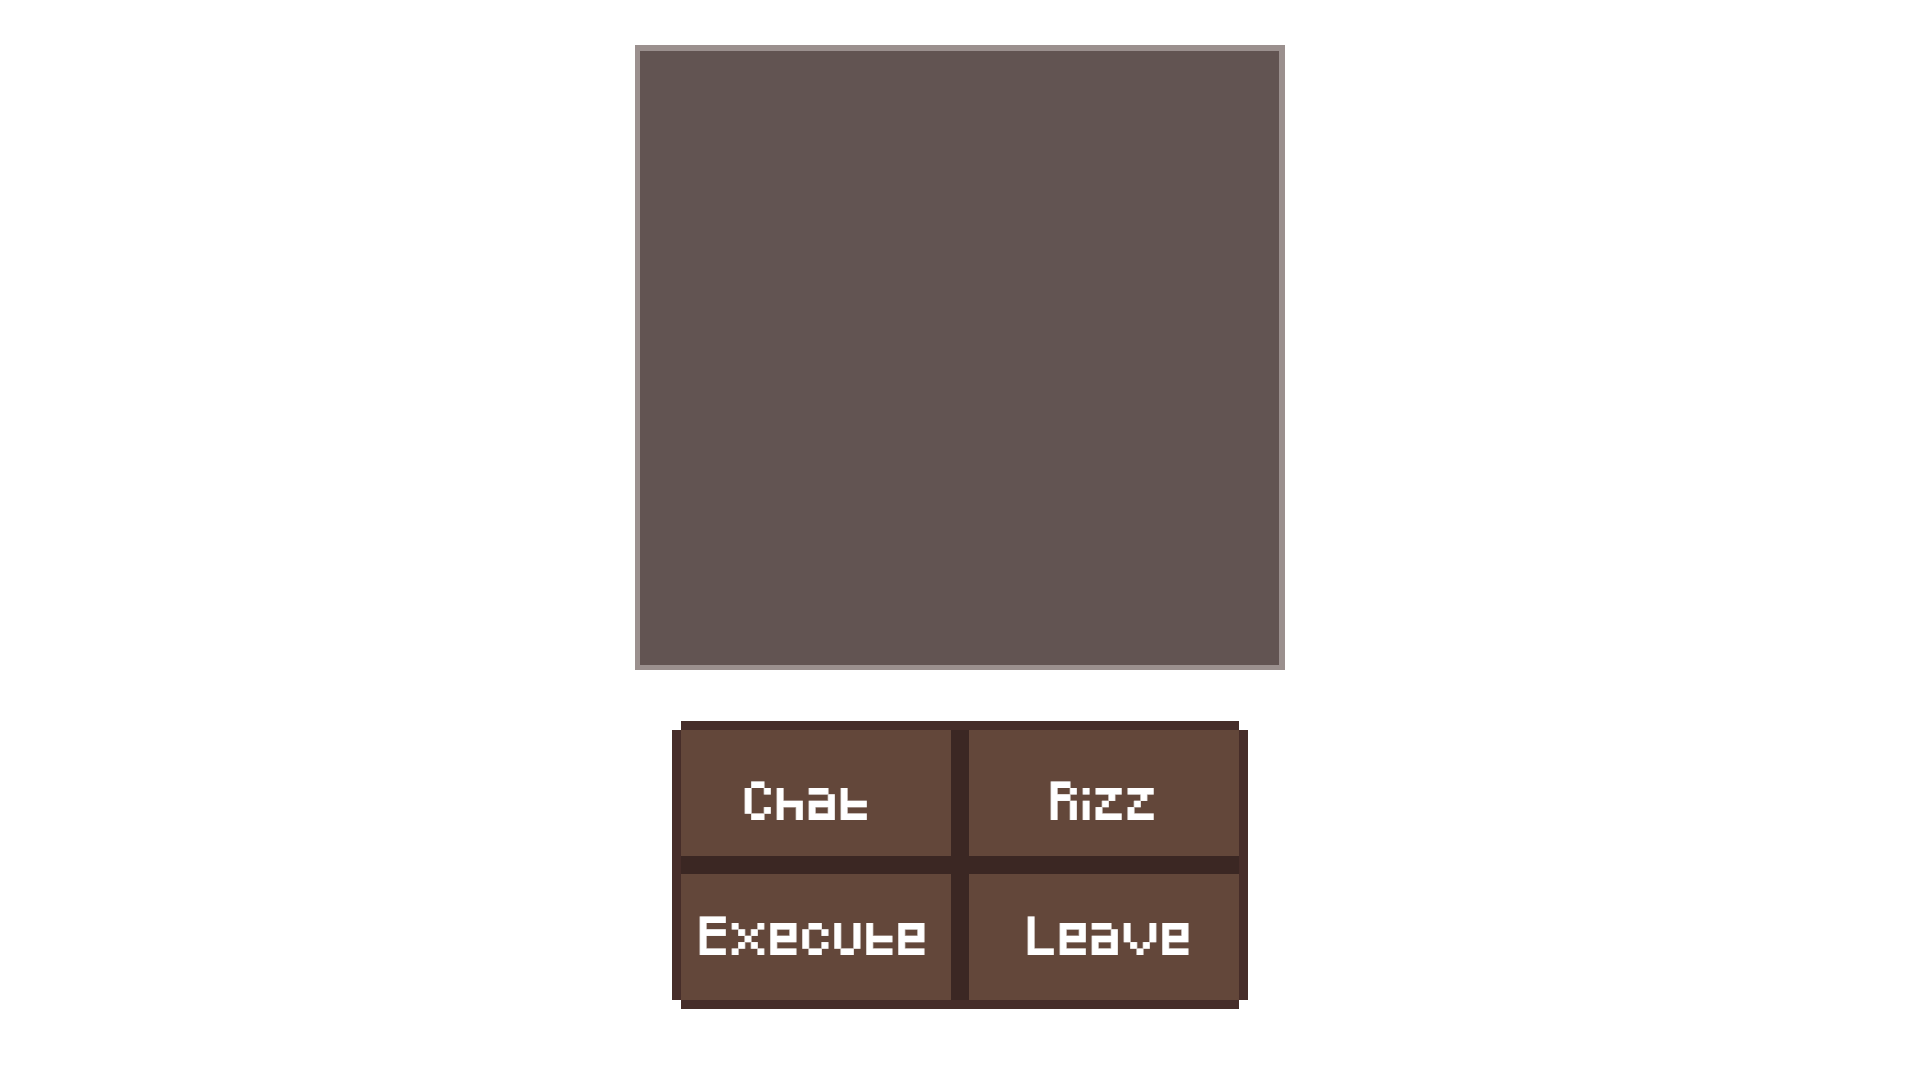
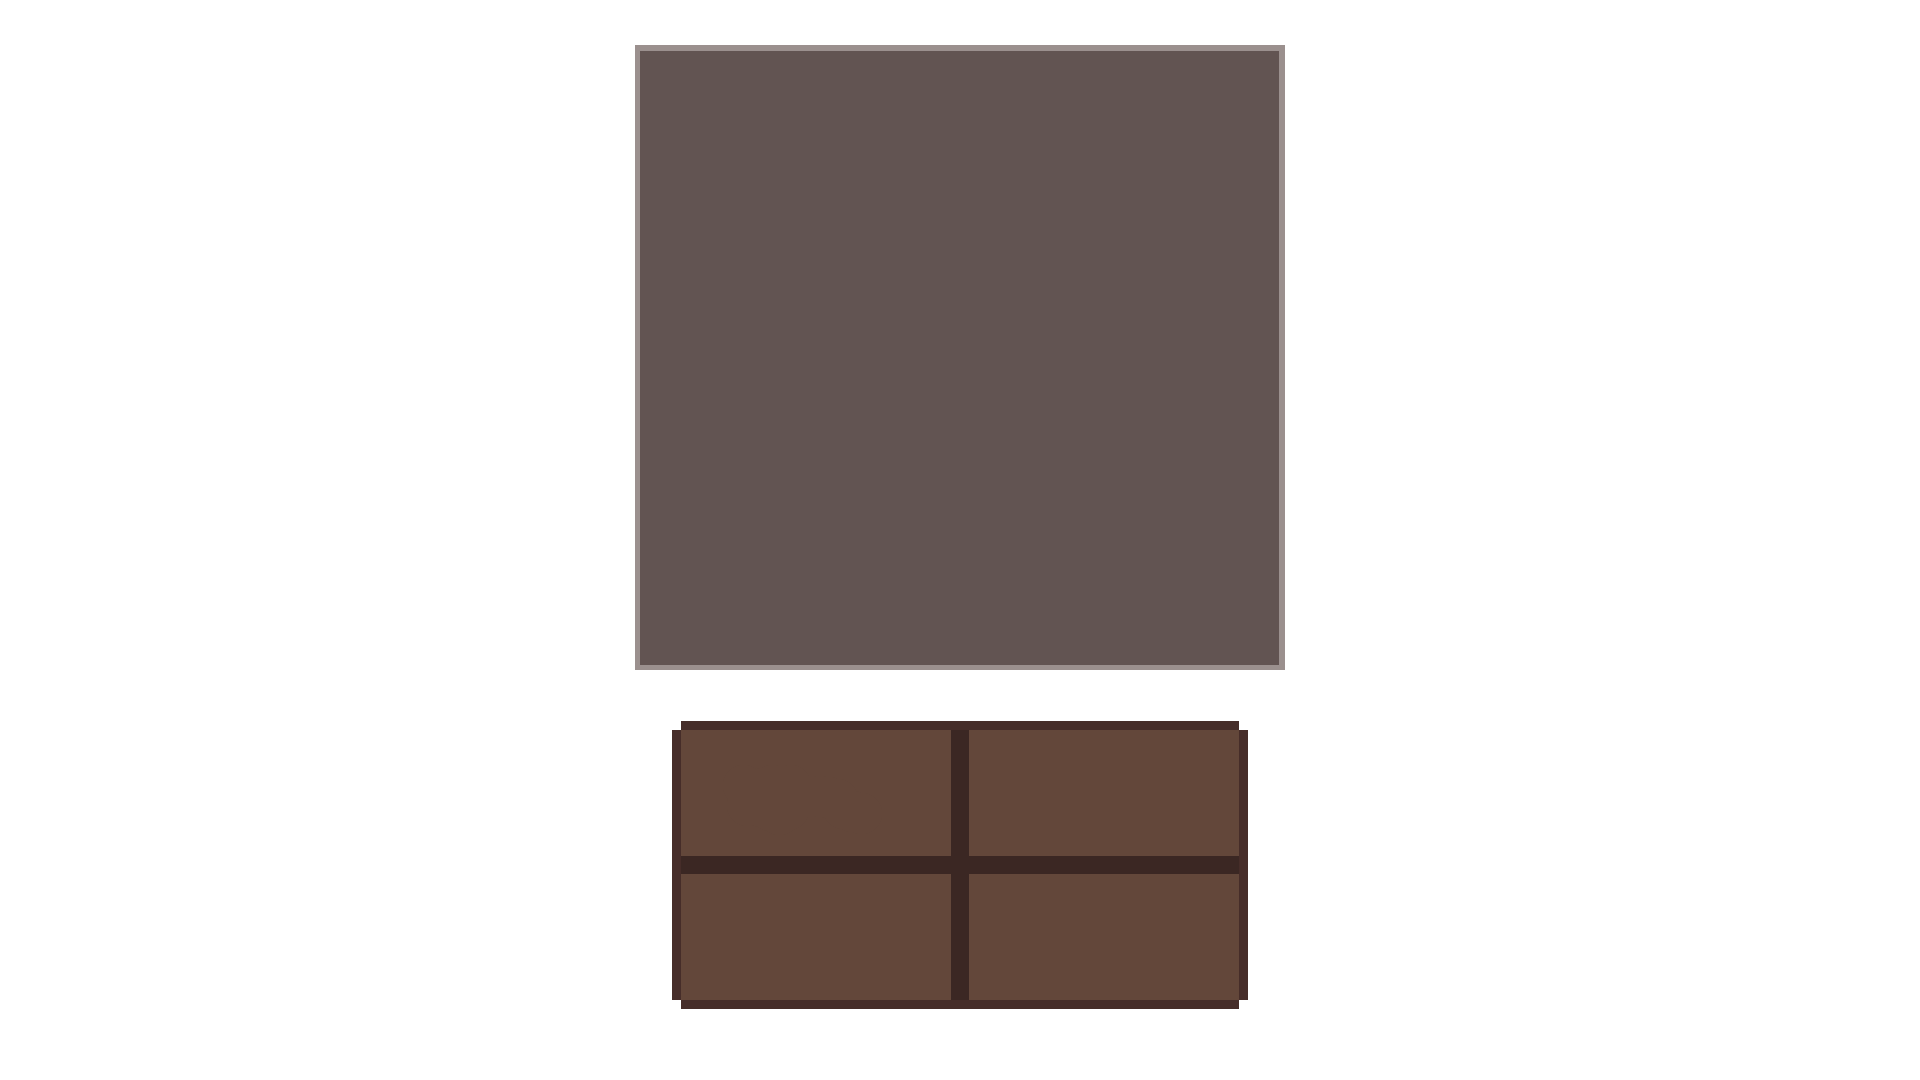
most of dialogue+execution

diff --git a/main.py b/main.py
@@ -3,6 +3,8 @@ import sys
 import json
 import random
 
+ 
+
 pygame.init() # initializing
 pygame.mixer.init() # intiizialaitiznig mixer
 
@@ -21,7 +23,7 @@ QUEEN_BOX.center = (1920 // 2 + 260, 1080 // 2)
 CONFIRM_BUTTON.center = (1920 // 2, 1080 - 140)
 main_pixel_font = pygame.font.Font('all_fonts/VCR_OSD_MONO_1.001.ttf', 70)
 running = True
-current_screen = "mission_board"
+current_screen = "main_menu"
 # role select screen 
 chosen_role = None  # final role
 role_selected = None  # currently highlighted role
@@ -69,6 +71,13 @@ fancy_back_arrow = pygame.image.load("images/nice_looking_arrow.png")
 control_room = pygame.image.load("images/control_room.png")
 troop_allocation = pygame.image.load("images/troop_allocation.png")
 quick_actions = pygame.image.load("images/quick_actions.png")
+
+# execution screen variables
+falling_man_y = -200
+falling_speed = 5
+ground_y = 1080 - 480
+execution_timer = 0
+blood_counter = 1
 
 #town stuff 
 aestheticing = ""
@@ -225,17 +234,48 @@ buildings_info = {
                 }
 
 citizen_count = 1
-citizens = ["citizen1", "citizen2", "citizen3"]
+citizens = ["citizen1", "citizen2", "citizen3", "citizen4"]
 valid_workers = citizens.copy()
 citizens_info = {
 "citizen1_type": "m_pilgrim1", "citizen1_location": [1900,1200], "citizen1_targetoffset": [0,0], "citizen1_resting": 100,
 "citizen2_type": "m_pilgrim2", "citizen2_location": [1950,1250], "citizen2_targetoffset": [0,0], "citizen2_resting": 56,
 "citizen3_type": "m_pilgrim3", "citizen3_location": [1900,1150], "citizen3_targetoffset": [0,0], "citizen3_resting": 126,
+"citizen4_type": "m_pilgrim4", "citizen4_location": [1950,1150], "citizen4_targetoffset": [0,0], "citizen4_resting": 126,
 }
-citizen_types = ["m_pilgrim1", "m_pilgrim2", "m_pilgrim3"]
+citizen_types = ["m_pilgrim1", "m_pilgrim2", "m_pilgrim3", "m_pilgrim4"]
 occupied_citizens = {}
 # track a single nearby citizen by name instead of a list; empty string means none
 citizens_in_proximity = ""
+
+default_personalities = ["friendly", "grumpy", "chill", "hyperactive", "lazy", "anxious", "stoic", "jokester"]
+default_dialogues = ["Hello, my liege!", "What do you want?", "Nice weather we're having.", "Have you heard the latest news?", "I'm bored...", "I'm worried about the future.", "Life is meaningless.", "There's been a lot of butterflies lately.", "What brings you here?", "Another boring day, ain't it?"]
+flirtatious_responses = ["Oh, stop it you!", "You're making me blush!", "Flattery will get you everywhere ;)", "You have a way with words, my liege.", "Is it getting hot in here or is it just you?", "I think I might be developing feelings for you...", "You're not so bad yourself ;)", "If you keep talking like that, I might have to do something about it..."]
+distant_responses = ["That's weird...", "I don't know how to respond to that.", "Um... okay?", "Can we just talk about the weather?", "I'm not really in the mood to chat.", "Sorry, I'm a bit busy right now.", "Let's just focus on ruling the kingdom, shall we?", "I think we should keep things professional."]
+default_responses = ["I'm just going out for a walk right now.", "I'm tending to my duties around the town.", "I'm visiting my family.", "I'm off to the market.", "I'm about to relax at home.", "I'm working on a project for the kingdom.", "I'm training with the guards.", "I'm taking care of some errands."]
+angry_responses = ["Why are you talking to me?", "Leave me alone!", "I don't want to talk to you!", "Go bother someone else!", "I'm not in the mood for this!", "What did I ever do to you?", "Stop wasting my time!", "I'm warning you, back off!"]
+flirtatious_dialogues = ["Why hello there, liege. ;)", "You look good today, liege.", "I was hoping I'd see you today, Liege.", "You know, I've been thinking about you a lot lately...", "I can't stop thinking about you, Liege.", "Funny to see you here, you were just on my mind."]
+default_rizzed_reaction = ["Thanks, I guess?", "Um, thanks?", "Oh... thanks?", "I don't know how to respond to that, but thanks?", "I appreciate the compliment, I think?", "Thanks, you're not so bad yourself, I guess?", "Oh, you shouldn't have... but thanks?", "Well, that's flattering, thank you?"]
+dialogue_closing = pygame.image.load("images/dialogue_closing.png")
+dialogue_closing_rect = dialogue_closing.get_rect()
+default_start_options = ["Chat", "Rizz", "Execute", "Leave"]
+default_chat_options = {
+"Speak of your day, commoner.": -10,
+"What are you doing, my loyal servant?": 0,
+"Peasant, what brings you in front of me?": -10,
+"How are you doing?": 0,
+}
+default_flirt_options = {
+"You're looking especially fine today.": 5,
+"You look better than the other peasants.": -5,
+"Your eyes remind me of the beauty of the sky.": 10,
+"Your lips.. They're pretty.": 5,
+"Your face looks good.": -5,
+"Ugly bastard." : -20
+}
+
+for citizen in citizens:
+    citizens_info[citizen + "_likeness_meter"] = 50
+
 citizens_talking = []
 population = len(citizens)
 text_popupsinfo = {}
@@ -245,6 +285,11 @@ chat_with = ""
 dialogue_ui = pygame.image.load("images/dialogue_ui.png")
 dialogue_ui_rect = dialogue_ui.get_rect()
 dialogue_hover = ""
+dialogue_stage = "default"
+onscreen_dialogue = default_start_options.copy() # starts off with the default chat options, but changes depending on the dialogue stage (flirt options, distant options, etc)
+current_dialogue = ""
+chosen_message = ""
+closing_counter = 0
 
 money = 0
 food = 10 # start with 10 so they don't lose immediately, since the farms take a while to grow crops and give food, so this gives them a grace period
@@ -283,6 +328,22 @@ def draw_circles(map_length, map_width, fps):
             outer_radius_length = clamp(outer_radius_length, 0, map_width//2)
         
     return [outer_radius_length, inner_radius_length]
+
+def wrap_text(text, font, max_width):
+    words = text.split(' ')
+    lines = []
+    current_line = ''
+    for word in words:
+        test_line = current_line + word + ' '
+        if font.size(test_line)[0] <= max_width:
+            current_line = test_line
+        else:
+            if current_line:
+                lines.append(current_line.rstrip())
+            current_line = word + ' '
+    if current_line:
+        lines.append(current_line.rstrip())
+    return lines
 
 #function for sending map drawing towards the middle nicely (SANTIAGO, AND SAME EXACT THING AS DRAW CIRCLES SO NO COMMENTS)
 map_timer_count = 0
@@ -415,10 +476,68 @@ while running:
 
                 if event.button == 1: # left click
                     
-                    if dialogue_hover == "leave" and in_chat == True:
-                        in_chat = False
-                        chat_with = ""
-                        dialogue_hover = ""
+                    if in_chat == True and dialogue_hover != "" and dialogue_stage != "closing":
+                        if dialogue_hover != "" and onscreen_dialogue[int(dialogue_hover) - 1] == "Leave":
+                            in_chat = False
+                            chat_with = ""
+                            dialogue_hover = ""
+                            dialogue_stage = "default"
+                            onscreen_dialogue = default_start_options.copy()
+                            current_dialogue = ""
+                        if dialogue_hover != "" and onscreen_dialogue[int(dialogue_hover) - 1] == "Chat":
+                            dialogue_stage = "chat"
+                            dialogue_hover = ""
+                            onscreen_dialogue[0] = random.choice(list(default_chat_options.keys()))
+                            onscreen_dialogue[1] = random.choice(list(default_chat_options.keys()))
+                            onscreen_dialogue[2] = random.choice(list(default_chat_options.keys()))
+                            onscreen_dialogue[3] = "Leave"
+                        if dialogue_hover != "" and dialogue_stage == "chat":
+                            chosen_message = onscreen_dialogue[int(dialogue_hover) - 1]
+                            response_value = default_chat_options[chosen_message]
+                            citizens_info[chat_with + "_likeness_meter"] += response_value
+                            meter = citizens_info[chat_with + "_likeness_meter"]
+
+                            if meter <= 30:
+                                current_dialogue = random.choice(angry_responses)
+                            else:
+                                current_dialogue = random.choice(default_responses)
+
+                            dialogue_stage = "closing"
+                        if dialogue_hover != "" and onscreen_dialogue[int(dialogue_hover) - 1] == "Rizz":
+                            dialogue_stage = "flirt"
+                            dialogue_hover = ""
+                            onscreen_dialogue[0] = random.choice(list(default_flirt_options.keys()))
+                            onscreen_dialogue[1] = random.choice(list(default_flirt_options.keys()))
+                            onscreen_dialogue[2] = random.choice(list(default_flirt_options.keys()))
+                            onscreen_dialogue[3] = "Leave"
+                        if dialogue_hover != "" and dialogue_stage == "flirt":
+                            chosen_message = onscreen_dialogue[int(dialogue_hover) - 1]
+                            response_value = default_flirt_options[chosen_message]
+                            citizens_info[chat_with + "_likeness_meter"] += response_value
+                            meter = citizens_info[chat_with + "_likeness_meter"]
+
+                            if meter >= 70:
+                                current_dialogue = random.choice(flirtatious_responses)
+                            elif meter <= 30:
+                                current_dialogue = random.choice(distant_responses)
+                            else:
+                                current_dialogue = random.choice(default_rizzed_reaction)
+
+                            if response_value < 0:
+                                current_dialogue = random.choice(distant_responses)
+
+                            dialogue_stage = "closing"
+                        if dialogue_hover != "" and onscreen_dialogue[int(dialogue_hover) - 1] == "Execute":
+                            citizens.remove(chat_with)
+                            in_chat = False
+                            chat_with = ""
+                            dialogue_hover = ""
+                            dialogue_stage = "default"
+                            onscreen_dialogue = default_start_options.copy()
+                            current_dialogue = ""
+                             
+
+                            current_screen = "execution"
 
                     if moving_building != "":
                         if "farmland" in moving_building: # if farmland was the last thing moved / was being moved
@@ -637,7 +756,8 @@ while running:
                     buildings_info[moving_building + "_location"] = [world_x, world_y]
 
 
-                #print(mouse_x, mouse_y)
+               # print(mouse_x, mouse_y)
+                #print(dialogue_hover)
                 #town ui aesthetics:
                 if mouse_x > 337 and mouse_x < 400 and mouse_y < 1070 and mouse_y > 1013:
                     sell_hover = True
@@ -698,7 +818,13 @@ while running:
 
                 if king_landed == True:
                     if mouse_x > 967 and mouse_x < 1237 and mouse_y < 996 and mouse_y > 873:
-                        dialogue_hover = "leave"
+                        dialogue_hover = "4"
+                    elif mouse_x > 679 and mouse_x < 948 and mouse_y < 842 and mouse_y > 729:
+                        dialogue_hover = "1"
+                    elif mouse_x > 968 and mouse_x < 1235 and mouse_y < 842 and mouse_y > 729:
+                        dialogue_hover = "2"
+                    elif mouse_x > 681 and mouse_x < 947 and mouse_y < 996 and mouse_y > 875:
+                        dialogue_hover = "3"
                     else:
                         dialogue_hover = ""
     # continuous keyboard input (WASD) for king movement once he has landed
@@ -1018,13 +1144,66 @@ while running:
         # dialogues tuff
 
         if in_chat:
-            screen.blit(dialogue_ui, dialogue_ui_rect)
+            if dialogue_stage != "closing":
+                screen.blit(dialogue_ui, dialogue_ui_rect)
+            else:
+                screen.blit(dialogue_closing, dialogue_closing_rect)
 
             citizen_portrait = pygame.image.load("images/" + citizens_info[chat_with + "_type"] + "_dialogue.png").convert_alpha()
             citizen_portrait_scaled = pygame.transform.scale(citizen_portrait, (citizen_portrait.get_width() * 2.5, citizen_portrait.get_height() * 2.5))
             citizen_portrait_rect = citizen_portrait_scaled.get_rect()
             citizen_portrait_rect.center = (960, 350)
             screen.blit(citizen_portrait_scaled, citizen_portrait_rect)
+            SMALLER_pixel_font = pygame.font.Font('all_fonts/VCR_OSD_MONO_1.001.ttf', 15)
+            line_height = SMALLER_pixel_font.get_height() + 2
+            max_width = 250
+            
+            if dialogue_stage != "closing":
+                if dialogue_stage == "default":
+                    screen.blit(smaller_pixel_font.render(onscreen_dialogue[0], True, (255,255,255)), (750, 775))
+                    screen.blit(smaller_pixel_font.render(onscreen_dialogue[1], True, (255,255,255)), (1030, 775))
+                    screen.blit(smaller_pixel_font.render(onscreen_dialogue[2], True, (255,255,255)), (715, 910))
+                    screen.blit(smaller_pixel_font.render(onscreen_dialogue[3], True, (255,255,255)), (1030, 910))
+                else:
+                    
+                    lines0 = wrap_text(onscreen_dialogue[0], SMALLER_pixel_font, max_width)
+                    for i, line in enumerate(lines0):
+                        screen.blit(SMALLER_pixel_font.render(line, True, (255,255,255)), (750, 775 + i * line_height))
+                    lines1 = wrap_text(onscreen_dialogue[1], SMALLER_pixel_font, max_width)
+                    for i, line in enumerate(lines1):
+                        screen.blit(SMALLER_pixel_font.render(line, True, (255,255,255)), (1020, 775 + i * line_height))
+                    lines2 = wrap_text(onscreen_dialogue[2], SMALLER_pixel_font, max_width)
+                    for i, line in enumerate(lines2):
+                        screen.blit(SMALLER_pixel_font.render(line, True, (255,255,255)), (715, 910 + i * line_height))
+                    lines3 = wrap_text(onscreen_dialogue[3], SMALLER_pixel_font, max_width)
+                    for i, line in enumerate(lines3):
+                        screen.blit(SMALLER_pixel_font.render(line, True, (255,255,255)), (1030, 910 + i * line_height))
+
+            if current_dialogue == "" and dialogue_stage == "default" and citizens_info[chat_with + "_likeness_meter"] < 70:
+                current_dialogue = random.choice(default_dialogues)
+            if current_dialogue == "" and citizens_info[chat_with + "_likeness_meter"] >= 70 and dialogue_stage == "default":
+                current_dialogue = random.choice(flirtatious_dialogues)
+            text_surface = SMALLER_pixel_font.render(current_dialogue, True, (255,255,255))
+            text_rect = text_surface.get_rect(center=(960, 650))
+            # draw black bg
+            bg_rect = text_rect.copy()
+            bg_rect.width += 20
+            bg_rect.height += 10
+            bg_rect.center = text_rect.center
+            pygame.draw.rect(screen, (0, 0, 0), bg_rect)
+            screen.blit(text_surface, text_rect)
+            
+            if dialogue_stage == "closing":
+                closing_counter += 1
+
+            if dialogue_stage == "closing" and closing_counter == 50:
+                in_chat = False
+                chat_with = ""
+                dialogue_hover = ""
+                dialogue_stage = "default"
+                onscreen_dialogue = default_start_options.copy()
+                current_dialogue = ""  
+                closing_counter = 0
 
     #drawing main menu (SANTIAGO)
     if current_screen == "main_menu":
@@ -1160,6 +1339,35 @@ while running:
     if current_screen == "control_room":
         screen.blit(pygame.transform.scale(control_room, (control_room.get_width() * 4, control_room.get_height() * 4)), (0,0))
 
+    if current_screen == "execution":
+        spike = pygame.image.load("images/spike.png").convert_alpha()
+        spike_scaled = pygame.transform.scale(spike, (spike.get_width() * 2, spike.get_height() * 2))
+        spike_rect = spike_scaled.get_rect()
+        screen.blit(spike_scaled, (960 - spike_scaled.get_width() // 2, 580))
+
+        falling_man = pygame.image.load("images/man_falling.png").convert_alpha()
+        if falling_man_y < ground_y:
+            falling_man_y += falling_speed
+        
+        falling_man_scaled = pygame.transform.scale(falling_man, (falling_man.get_width() * 2, falling_man.get_height() * 2))
+        screen.blit(falling_man_scaled, (960 - falling_man_scaled.get_width() // 2, falling_man_y))
+
+        execution_timer += 1
+        
+        if falling_man_y >= ground_y:
+            blood_frame = pygame.image.load("images/blood_frame" + str(blood_counter) + ".png").convert_alpha()
+            blood_frame_scaled = pygame.transform.scale(blood_frame, (blood_frame.get_width() * 2, blood_frame.get_height() * 2))
+
+            screen.blit(blood_frame_scaled, (960 - spike_scaled.get_width() // 2, ground_y))
+            if blood_counter != 6:
+                blood_counter += 1
+
+        if execution_timer == 300:
+            current_screen = "town"
+            execution_timer = 0
+            dragging = False
+            falling_man_y = -200
+            blood_counter = 1
     # (RARES) transition (fade to white, then fade back)
     if transitioning:
         if transition_state == "cover":
